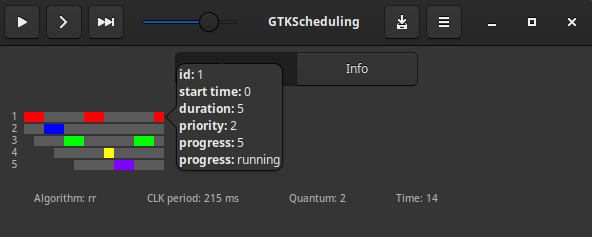
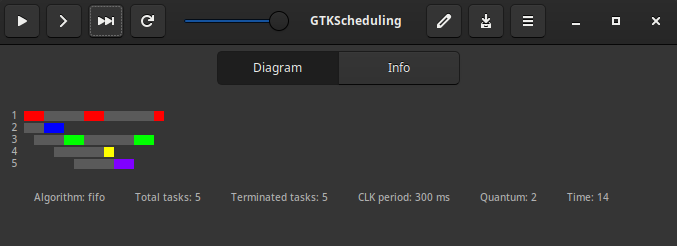
add terminated tasks info to diagram tab; update imgs

diff --git a/src/window.py b/src/window.py
@@ -387,10 +387,12 @@ class Window(Gtk.Window):
 
         y = self.rect_y0 + self.lines_dist_y * len(self.list_tasks) + 30
         x_offset = self.rect_x0
-        spacing = 50
+        spacing = 30
 
         texts = [
             f"Algorithm: {self.app.scheduler.alg_scheduling}",
+            f"Total tasks: {len(self.list_tasks)}",
+            f"Terminated tasks: {self.app.scheduler.num_term_tasks}",
             f"CLK period: {self.app.timer.interval_ms:.0f} ms",
             f"Quantum: {self.app.scheduler.quantum}",
             f"Time: {self.app.scheduler.time}",
